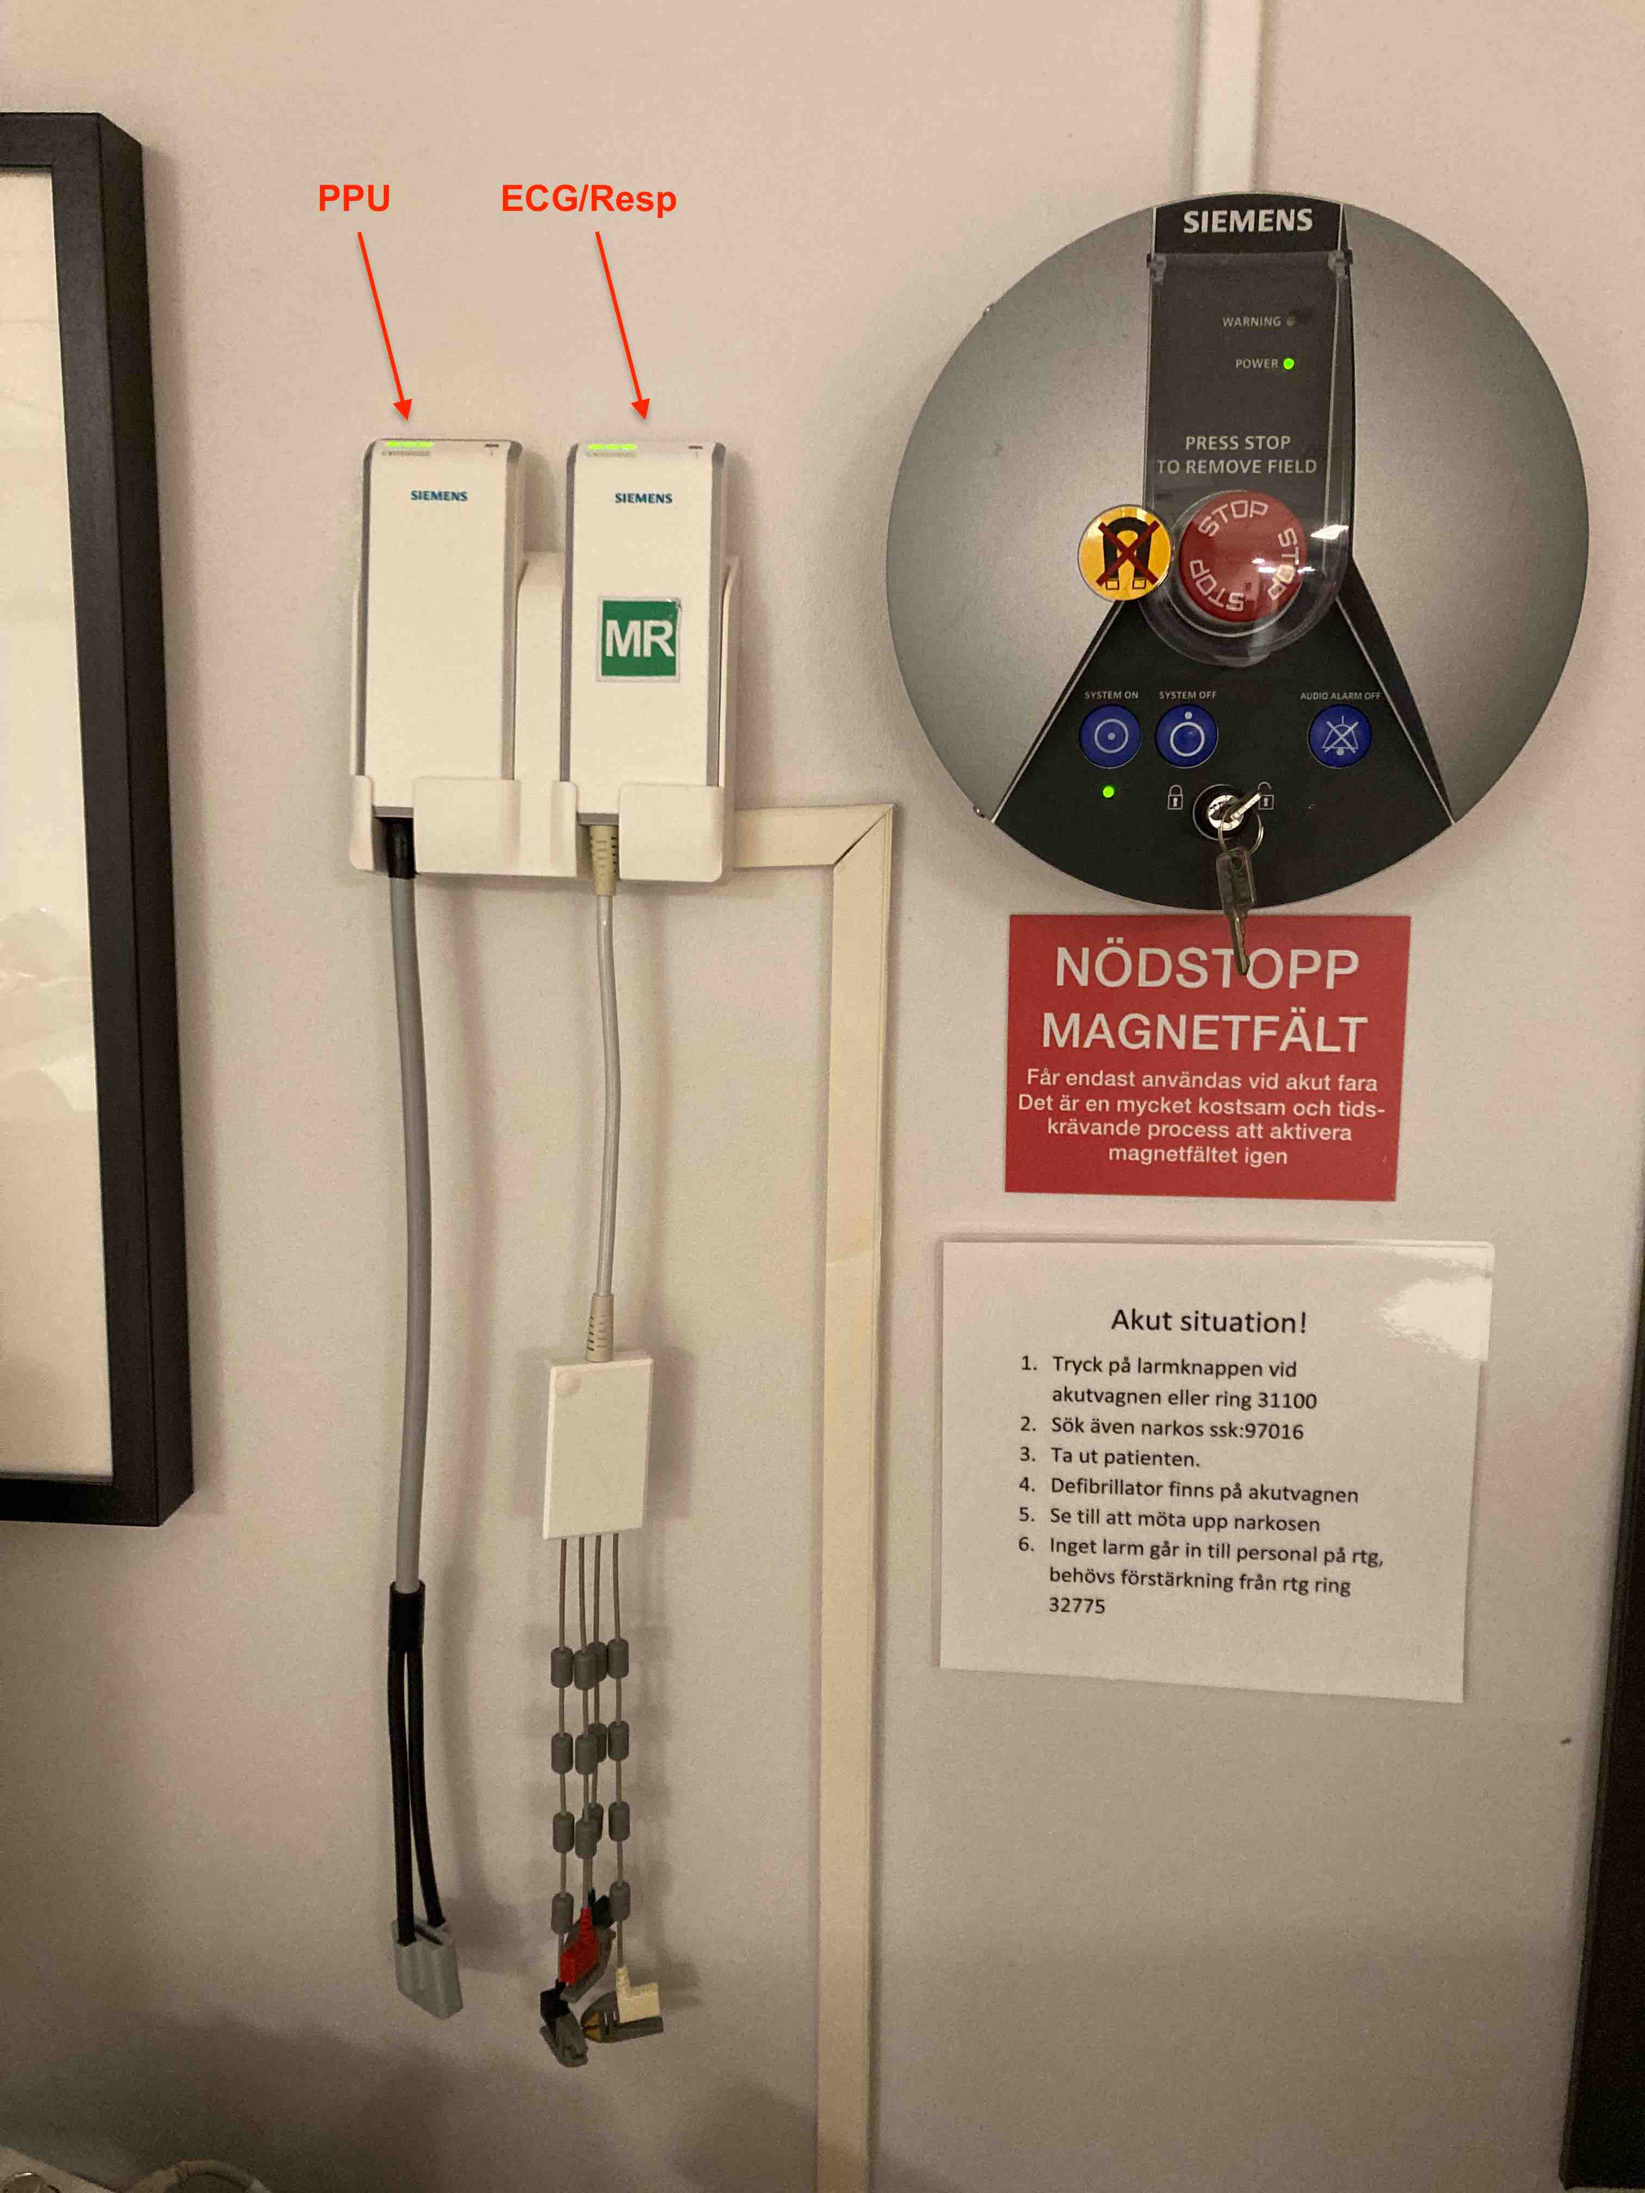
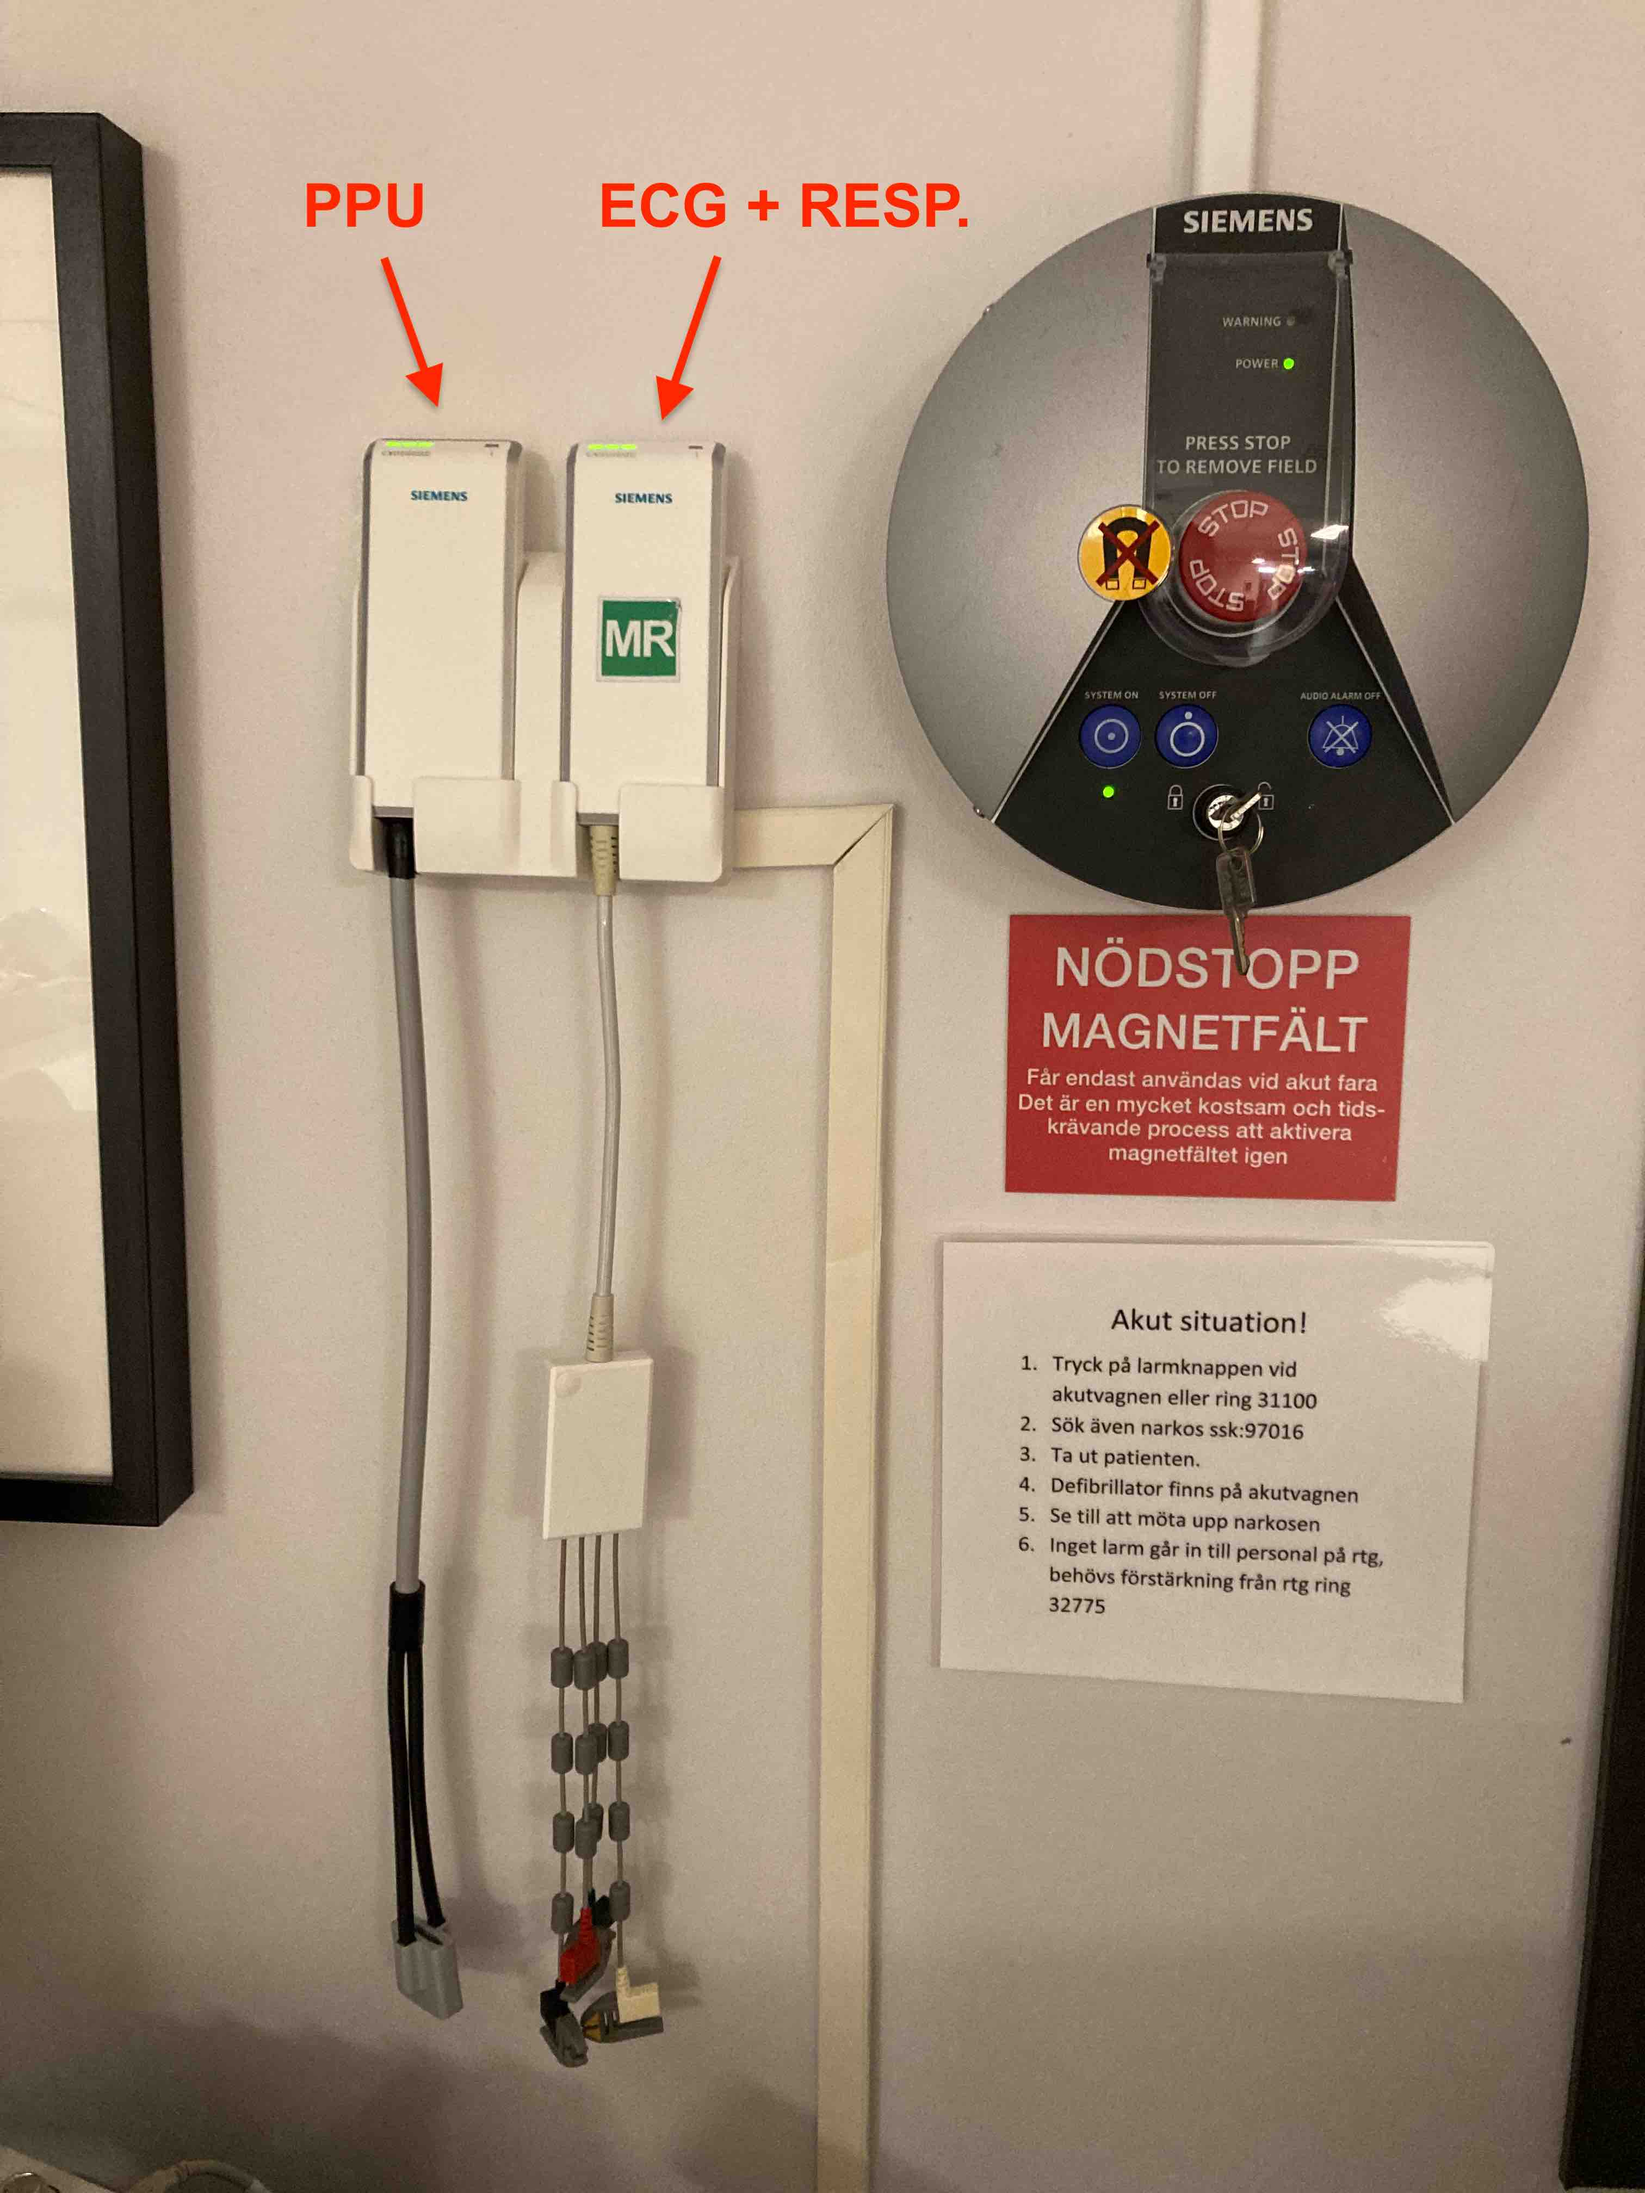
Updated PPU/ECG/Resp image

Changed region(s): [[0.3108, 0.0625, 0.4663, 0.1875], [0.4663, 0.0625, 0.5906, 0.125], [0.1865, 0.0625, 0.2798, 0.1875]]

diff --git a/content/mr6/mr6-operator-instructions.html b/content/mr6/mr6-operator-instructions.html
@@ -102,7 +102,7 @@
                         </div>    
                     </li>
                     <li>
-                        Siemens: Peripheral pulse unit + Breathing sensor<br>
+                        Siemens: Peripheral pulse unit (PPU) + ECG/Respiratory sensor<br>
                         <img decoding="async" loading="lazy" src="images/cmiv/ppu-ecg-resp.jpg" alt="ppu+breathing-sensor" style="width:300px;">
                     </li>
                     <li>
